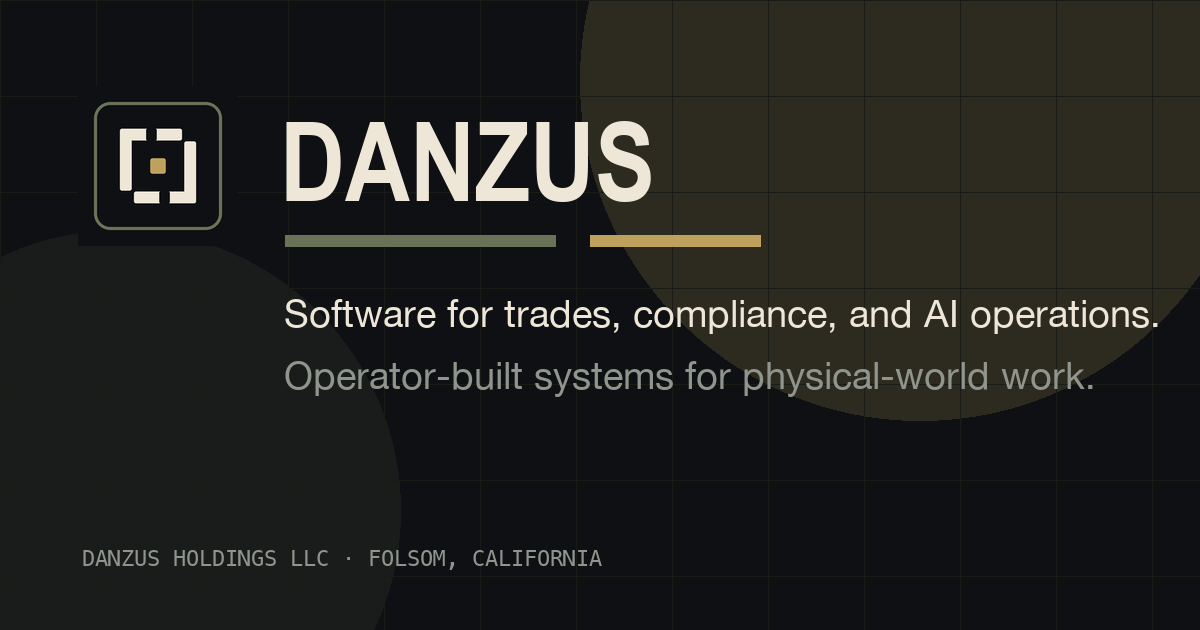
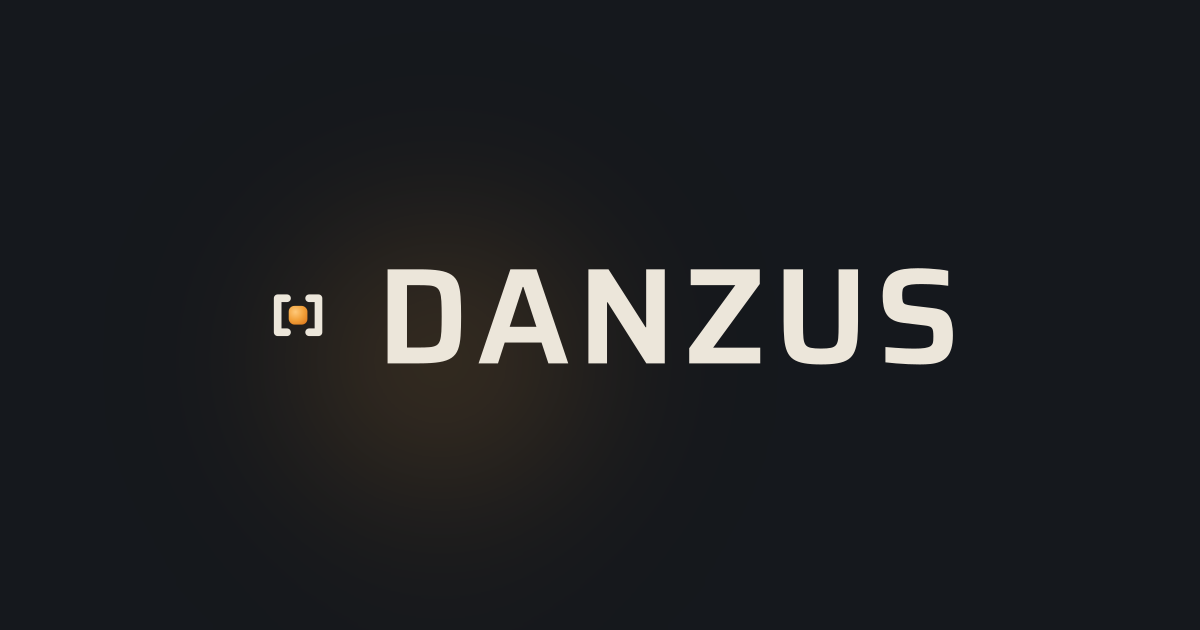
chore: apply DANZUS brand kit

diff --git a/app/globals.css b/app/globals.css
@@ -1,19 +1,21 @@
+@import './danzus-tokens.css';
+
 :root {
-  --bg: #0b0907;
-  --bg-2: #110e0b;
-  --bg-3: #181410;
-  --ink: #f5ecda;
-  --ink-2: #b8ad97;
-  --ink-3: #6f6657;
-  --ink-4: #3a3429;
-  --gold: #bfa15e;
-  --gold-2: #d1b676;
-  --rust: #697257;
-  --line: rgba(191, 161, 94, 0.14);
-  --line-2: rgba(245, 236, 218, 0.08);
-  --display: 'Barlow Condensed', sans-serif;
-  --body: 'DM Sans', sans-serif;
-  --mono: 'JetBrains Mono', monospace;
+  --bg: var(--danzus-graphite);
+  --bg-2: var(--danzus-carbon);
+  --bg-3: var(--danzus-carbon-2);
+  --ink: var(--danzus-bone);
+  --ink-2: #c9c1b2;
+  --ink-3: var(--danzus-rail);
+  --ink-4: #343a42;
+  --gold: var(--danzus-arc);
+  --gold-2: var(--danzus-arc-light);
+  --rust: var(--danzus-rail);
+  --line: rgba(242, 162, 60, 0.16);
+  --line-2: rgba(236, 230, 218, 0.08);
+  --display: var(--danzus-font-display);
+  --body: var(--danzus-font-body);
+  --mono: var(--danzus-font-mono);
 }
 
 * { margin: 0; padding: 0; box-sizing: border-box; }
@@ -87,46 +89,12 @@ nav {
 
 .nav-mark { display: flex; align-items: center; gap: 10px; }
 
-.brand-glyph {
-  position: relative;
-  width: 24px;
-  height: 24px;
-  display: inline-block;
-  border: 1px solid #697257;
-  border-radius: 5px;
-  background: #0e1013;
+.brand-glyph-img {
+  width: 34px;
+  height: 34px;
+  display: block;
+  border-radius: 7px;
   box-shadow: 0 0 0 1px rgba(191, 161, 94, 0.12), 0 0 14px rgba(105, 114, 87, 0.22);
-}
-
-.glyph-bracket {
-  position: absolute;
-  width: 12px;
-  height: 12px;
-}
-
-.glyph-bracket-a {
-  left: 6px;
-  top: 6px;
-  border-top: 3px solid var(--ink);
-  border-left: 3px solid var(--ink);
-}
-
-.glyph-bracket-b {
-  right: 6px;
-  bottom: 6px;
-  border-right: 3px solid var(--ink);
-  border-bottom: 3px solid var(--ink);
-}
-
-.glyph-datum {
-  position: absolute;
-  left: 50%;
-  top: 50%;
-  width: 4px;
-  height: 4px;
-  transform: translate(-50%, -50%);
-  border-radius: 1px;
-  background: #bfa15e;
 }
 
 .nav-mark .name {
@@ -301,7 +269,7 @@ nav {
   opacity: 0;
   transform: translateY(110%);
   animation: rise 1.1s cubic-bezier(0.22, 1, 0.36, 1) forwards;
-  background: linear-gradient(90deg, #bfa15e 0%, #a9875e 30%, #697257 62%, #8f958c 100%);
+  background: linear-gradient(90deg, var(--danzus-arc-light) 0%, var(--danzus-arc) 30%, var(--danzus-rail) 62%, var(--danzus-bone) 100%);
   -webkit-background-clip: text;
   -webkit-text-fill-color: transparent;
   background-clip: text;
@@ -331,10 +299,10 @@ nav {
   animation: rise 1s 0.6s cubic-bezier(0.22, 1, 0.36, 1) forwards;
 }
 
-.ety-d  { color: #bfa15e; }
-.ety-a  { color: #a9875e; }
-.ety-nz { color: #697257; }
-.ety-us { color: #8f958c; }
+.ety-d  { color: var(--danzus-arc); }
+.ety-a  { color: var(--danzus-arc-deep); }
+.ety-nz { color: var(--danzus-rail); }
+.ety-us { color: var(--danzus-bone); }
 
 .hero-display {
   font-family: var(--display);
@@ -934,7 +902,7 @@ footer {
 /* ── Agent Readiness pages ── */
 .agent-readiness-page {
   min-height: 100vh;
-  background: #0b0907;
+  background: var(--danzus-graphite);
   color: var(--ink);
 }
 

diff --git a/app/page.tsx b/app/page.tsx
@@ -74,11 +74,7 @@ export default function Home() {
       <nav>
         <div className="wrap nav-inner">
           <div className="nav-mark">
-            <span className="brand-glyph" aria-hidden="true">
-              <span className="glyph-bracket glyph-bracket-a"></span>
-              <span className="glyph-bracket glyph-bracket-b"></span>
-              <span className="glyph-datum"></span>
-            </span>
+            <img className="brand-glyph-img" src="/danzus-mark.svg" alt="" aria-hidden="true" />
             <span className="name">DANZUS</span>
           </div>
           <div className="nav-links">
@@ -357,10 +353,10 @@ export default function Home() {
                 Agent Readiness <span className="arr">→</span>
               </div>
             </a>
-            <a className="ch" href="mailto:hello@danzus.co">
+            <a className="ch" href="mailto:dan@dimevision.app?subject=DANZUS%20inquiry">
               <div className="ch-label">Email &middot; Contact</div>
               <div className="ch-value">
-                hello@danzus.co <span className="arr">↗</span>
+                dan@dimevision.app <span className="arr">↗</span>
               </div>
             </a>
           </div>

diff --git a/app/not-found.tsx b/app/not-found.tsx
@@ -6,12 +6,12 @@ export default function NotFound() {
       flexDirection: 'column',
       alignItems: 'center',
       justifyContent: 'center',
-      background: '#0b0907',
-      color: '#f5ecda',
-      fontFamily: "'DM Sans', sans-serif",
+      background: '#15181D',
+      color: '#ECE6DA',
+      fontFamily: "'Hanken Grotesk', sans-serif",
     }}>
       <h1 style={{
-        fontFamily: "'Barlow Condensed', sans-serif",
+        fontFamily: "'Saira', sans-serif",
         fontSize: '96px',
         fontWeight: 700,
         textTransform: 'uppercase',
@@ -21,11 +21,11 @@ export default function NotFound() {
       }}>
         404
       </h1>
-      <p style={{ color: '#6f6657', fontSize: '16px' }}>Page not found.</p>
+      <p style={{ color: '#6B7178', fontSize: '16px' }}>Page not found.</p>
       <a href="/" style={{
         marginTop: '32px',
-        color: '#d4a853',
-        fontFamily: "'JetBrains Mono', monospace",
+        color: '#F2A23C',
+        fontFamily: "'IBM Plex Mono', monospace",
         fontSize: '11px',
         textTransform: 'uppercase',
         letterSpacing: '0.16em',

diff --git a/app/layout.tsx b/app/layout.tsx
@@ -92,7 +92,7 @@ export default function RootLayout({
         <link rel="preconnect" href="https://fonts.googleapis.com" />
         <link rel="preconnect" href="https://fonts.gstatic.com" crossOrigin="anonymous" />
         <link
-          href="https://fonts.googleapis.com/css2?family=Barlow+Condensed:ital,wght@0,300;0,400;0,500;0,600;0,700;0,800;1,300;1,400;1,500;1,600;1,700&family=DM+Sans:wght@300;400;500;700&family=JetBrains+Mono:wght@400;500&display=swap"
+          href="https://fonts.googleapis.com/css2?family=Saira:wght@400;500;600;700&family=Hanken+Grotesk:wght@400;500;600&family=IBM+Plex+Mono:wght@400;500&display=swap"
           rel="stylesheet"
         />
       </head>

diff --git a/app/agent-readiness/page.tsx b/app/agent-readiness/page.tsx
@@ -38,7 +38,7 @@ export default function AgentReadinessHome() {
             The Agent Readiness Snapshot reviews how AI systems may classify, evaluate, compare, and recommend your company based on public website content.
           </p>
           <div className="ar-actions">
-            <a className="ar-btn ar-btn-primary" href="mailto:hello@danzus.co?subject=Agent%20Readiness%20Snapshot">
+            <a className="ar-btn ar-btn-primary" href="mailto:dan@dimevision.app?subject=Agent%20Readiness%20Snapshot">
               Request or unlock a report
             </a>
             <Link className="ar-btn ar-btn-secondary" href="/agent-readiness/sample-report">

diff --git a/app/danzus-tokens.css b/app/danzus-tokens.css
@@ -1,0 +1,13 @@
+:root{
+  --danzus-graphite: #15181D;
+  --danzus-bone: #ECE6DA;
+  --danzus-arc: #F2A23C;
+  --danzus-arc-deep: #E07E1F;
+  --danzus-arc-light: #FFC97A;
+  --danzus-carbon: #1B1F26;
+  --danzus-carbon-2: #22272F;
+  --danzus-rail: #6B7178;
+  --danzus-font-display: 'Saira', system-ui, sans-serif;
+  --danzus-font-body: 'Hanken Grotesk', system-ui, sans-serif;
+  --danzus-font-mono: 'IBM Plex Mono', ui-monospace, monospace;
+}
